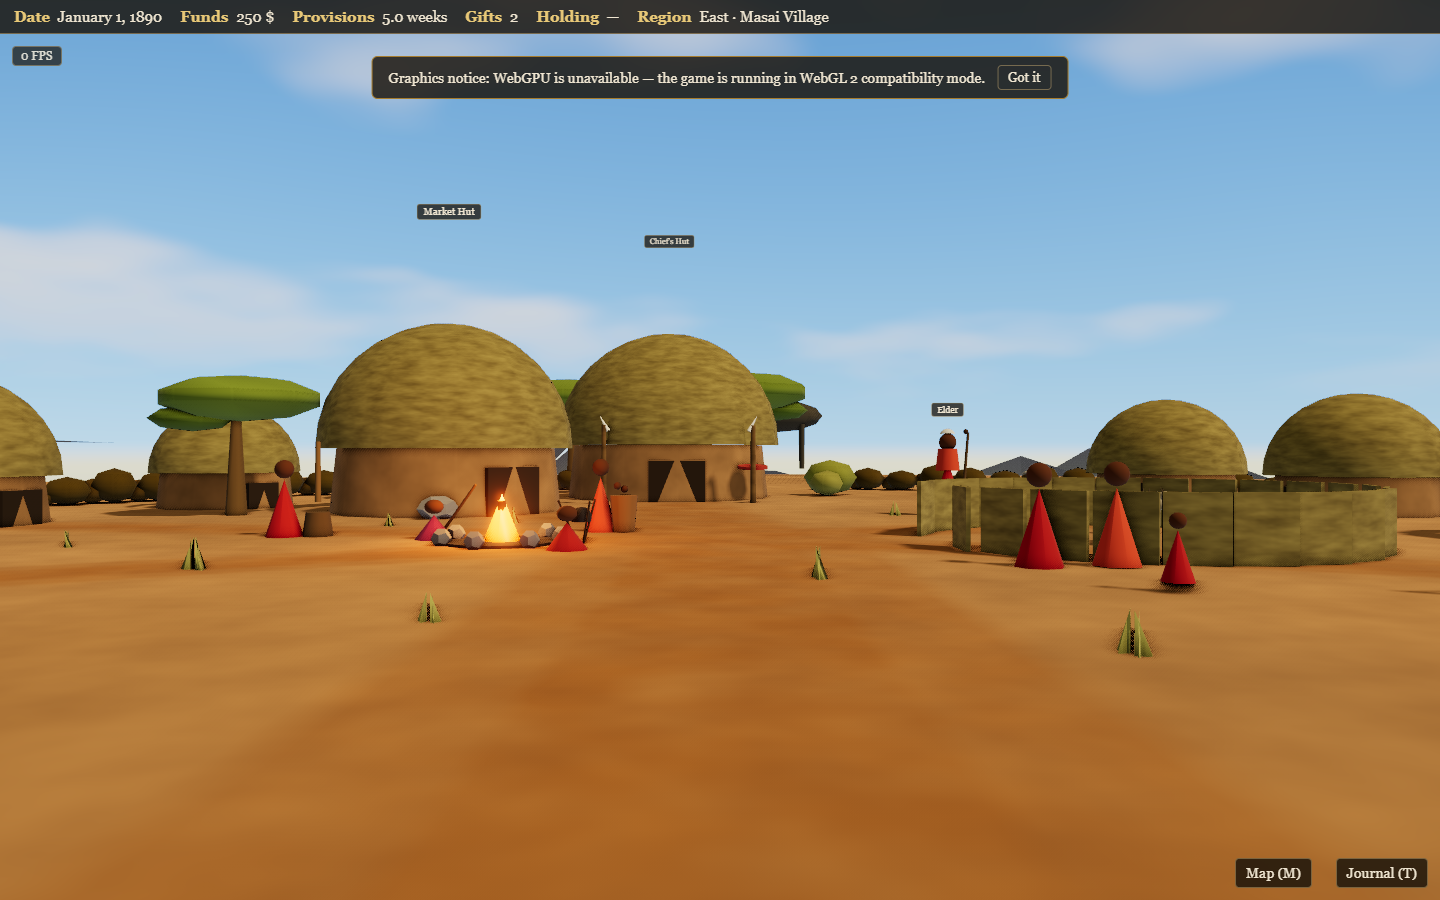
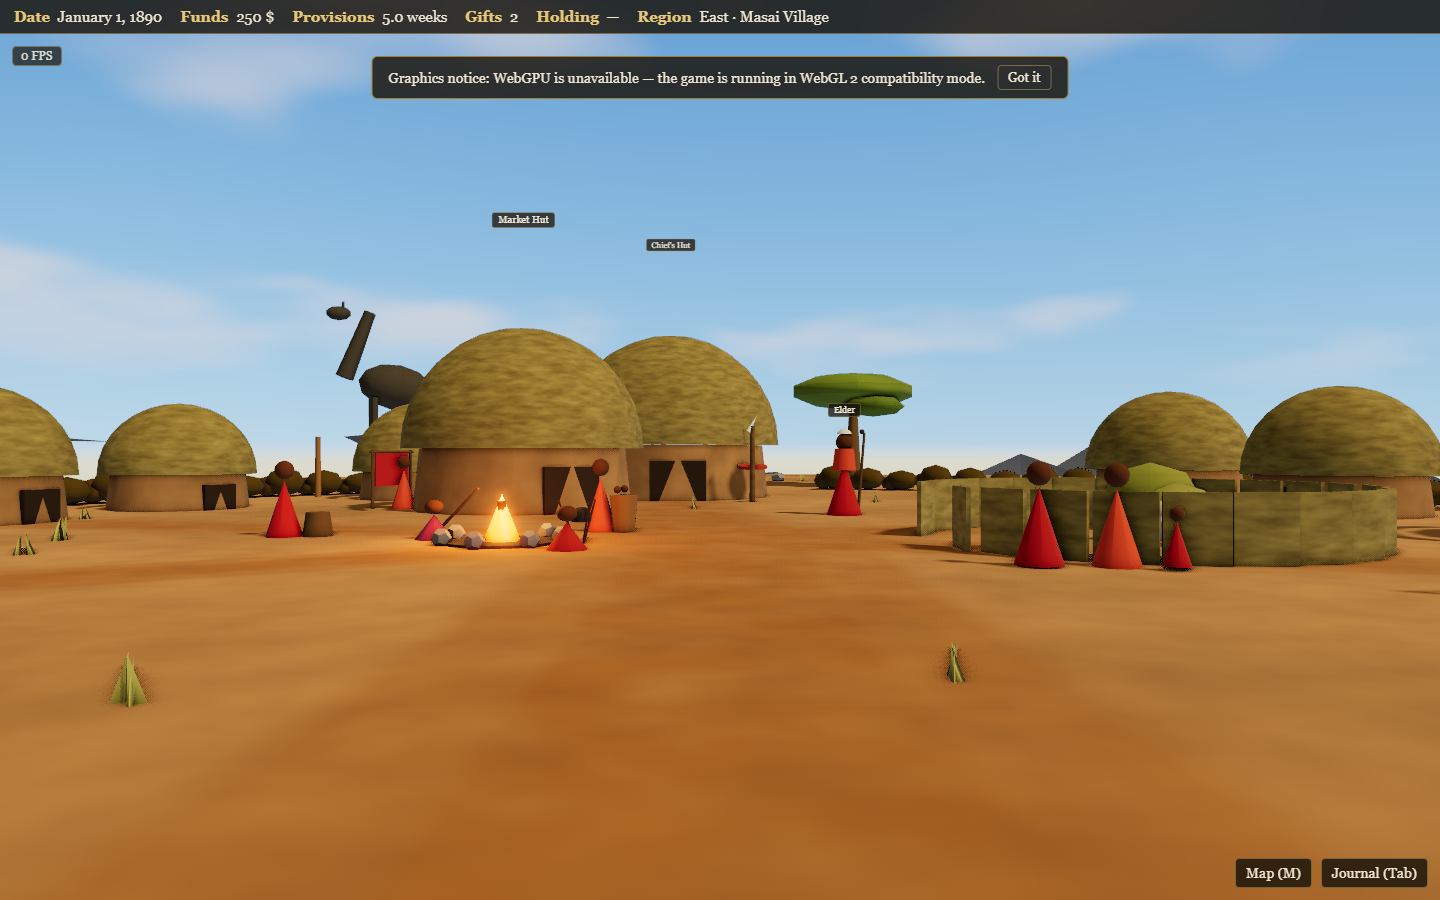
Elephants move as gentle-arcing herds; prey dodge only at the last moment
Elephants no longer hunt prey or turn sharply. Each herd (elephants
placed together share a herd id) roams as one: members follow a shared
heading that curves in slow arcs and steer back toward the herd centre if
they drift off (cohesion), so they stay together and are rarely alone.
Every turn is clamped to a gentle rate — they only ever move forward, no
strafing or backing up; when the ground ahead is impassable they redirect
gently and hold position rather than turning sharply. Prey now dodge an
approaching elephant only within a small panic radius and a touch slower
than the herd, so a head-on herd still tramples one now and then.

Verification: enrichments.mjs asserts a herd's centre moves while staying
clustered with only gentle heading changes, that prey ignore a distant
elephant but dart away from a close one, and (unchanged) that an elephant
on a prey still tramples it.

diff --git a/src/scenes/travel/Wildlife.tsx b/src/scenes/travel/Wildlife.tsx
@@ -50,6 +50,8 @@ interface Animal {
   drink?: { tx: number; tz: number }
   /** Current heading for roaming elephants (radians; set lazily). */
   heading?: number
+  /** Herd id shared by elephants placed together, so a herd moves as one. */
+  herd?: number
 }
 
 /**
@@ -92,12 +94,18 @@ const FLEES_LION: Record<Species, boolean> = {
 const TRAMPLE_RADIUS = 1.5
 const FLEE_RADIUS = 14
 const MAX_STAINS = 60
-/** Elephant roaming (design.md §19): walk speed, turn rate, prey-notice range.
- *  The turn rate keeps the turning radius (speed/turn) below the trample radius
- *  so a pursuing elephant can close in on prey instead of orbiting it. */
-const ELEPHANT_SPEED = 1.8
-const ELEPHANT_TURN = 1.6
-const ELEPHANT_NOTICE = 42
+/** Elephant herd roaming (design.md §19): a slow amble that only ever moves
+ *  forward, turning in gentle arcs. Herd-mates keep together (cohesion); they
+ *  do not hunt prey — a smaller animal is only trampled if it happens to be in
+ *  the herd's path and dodges too late. */
+const ELEPHANT_SPEED = 1.5
+const ELEPHANT_TURN = 0.55 // gentle steering only (no sharp turns / strafing)
+const ELEPHANT_HERD_ARC = 0.3 // amplitude of the herd heading's slow S-curve
+const ELEPHANT_COHESION = 6 // steer back toward the herd beyond this radius
+/** Prey dodge an elephant only when it comes this close, and a touch slower
+ *  than the elephant, so a head-on herd still tramples them now and then. */
+const PREY_PANIC_RADIUS = 3.2
+const PREY_PANIC_SPEED = 1.35
 
 function hash(cx: number, cz: number, i: number, seed: number): number {
   let h = (seed ^ 0xa51ce5) >>> 0
@@ -158,7 +166,10 @@ function buildHerds(cx: number, cz: number, seed: number): Record<Species, Anima
         }
       }
       if (!species) continue
-      placeGroup(herds[species], ccx, ccz, ax, az, count, 7, seed, species === 'elephant' ? 1 : 0.9, false)
+      // Elephants placed together share a herd id (stable per chunk) so they
+      // move as one; other species roam/graze individually.
+      const herdId = species === 'elephant' ? ccx * 1000003 + ccz : undefined
+      placeGroup(herds[species], ccx, ccz, ax, az, count, 7, seed, species === 'elephant' ? 1 : 0.9, false, herdId)
     }
   }
   return herds
@@ -175,6 +186,7 @@ function placeGroup(
   seed: number,
   baseScale: number,
   shoreline: boolean,
+  herdId?: number,
 ) {
   for (let i = 0; i < count; i++) {
     const r1 = hash(ccx, ccz, 10 + i * 3, seed)
@@ -197,6 +209,7 @@ function placeGroup(
       rot: r3 * Math.PI * 2,
       scale: baseScale * (0.85 + r3 * 0.3),
       phase: r1 * Math.PI * 2,
+      ...(herdId !== undefined ? { herd: herdId } : {}),
     }
     // Animals near water periodically walk to the shore and drink
     // (design.md §19); the shore point follows the water-distance gradient.
@@ -230,6 +243,8 @@ function Herds() {
   const meshRefs = useRef<Partial<Record<Species, THREE.InstancedMesh>>>({})
   const herdsRef = useRef<Record<Species, Animal[]> | null>(null)
   const lastCenter = useRef<string | null>(null)
+  // Shared per-herd roaming state (heading + arc phase), keyed by herd id.
+  const herdState = useRef(new Map<number, { heading: number; phase: number }>())
 
   const geometries = useMemo<Record<Species, THREE.BufferGeometry>>(
     () => ({
@@ -284,6 +299,7 @@ function Herds() {
       lastCenter.current = center
       herdsRef.current = buildHerds(cx, cz, seed)
       stains.current = []
+      herdState.current.clear()
     }
     const herds = herdsRef.current
     if (!herds) return
@@ -291,10 +307,38 @@ function Herds() {
     const t = clock.elapsedTime
     const lionActive = LION_STATE.mode === 'chase' || LION_STATE.mode === 'feed'
 
-    // Elephants roam the savanna (design.md §19): a slow directed walk, gently
-    // biased toward the nearest grazing prey, staying on suitable land. Their
-    // moving positions drive the trampling of smaller animals underfoot.
-    const preyHerds = [herds.zebra, herds.antelope, herds.giraffe]
+    // Elephants roam as herds (design.md §19): each herd shares a heading that
+    // curves in slow arcs; its members keep together (cohesion) and only ever
+    // move forward. They do not hunt — a smaller animal is trampled only if it
+    // is in the herd's path and dodges too late. First aggregate each live
+    // herd's centre and advance its shared heading.
+    const herdCentre = new Map<number, { cx: number; cz: number; heading: number }>()
+    {
+      const sum = new Map<number, { sx: number; sz: number; n: number }>()
+      for (const a of herds.elephant) {
+        if (a.dead || a.herd === undefined) continue
+        const agg = sum.get(a.herd) ?? { sx: 0, sz: 0, n: 0 }
+        agg.sx += a.x
+        agg.sz += a.z
+        agg.n++
+        sum.set(a.herd, agg)
+      }
+      for (const [hid, agg] of sum) {
+        const ccx = agg.sx / agg.n
+        const ccz = agg.sz / agg.n
+        let st = herdState.current.get(hid)
+        if (!st) {
+          st = { heading: hash(hid, 0, 7, seed) * Math.PI * 2, phase: hash(hid, 0, 8, seed) * Math.PI * 2 }
+          herdState.current.set(hid, st)
+        }
+        st.heading += Math.sin(t * 0.08 + st.phase) * ELEPHANT_HERD_ARC * dt
+        // Steer the herd away from ground it cannot cross (ahead of its centre).
+        const fll = worldToLatLon(ccx + Math.sin(st.heading) * 9, ccz + Math.cos(st.heading) * 9)
+        const ft = sampleTerrain(fll.lat, fll.lon, seed).type
+        if (ft !== 'savanna' && ft !== 'jungle') st.heading += ELEPHANT_TURN * 2 * dt
+        herdCentre.set(hid, { cx: ccx, cz: ccz, heading: st.heading })
+      }
+    }
     const elephantPos: Array<[number, number]> = []
     {
       const list = herds.elephant
@@ -303,23 +347,27 @@ function Herds() {
         const a = list[i]
         if (a.dead) continue
         if (a.heading === undefined) a.heading = a.rot
-        // Steer toward the nearest live prey within notice range; otherwise
-        // wander with a slowly curving heading (deterministic per elephant).
-        let target: Animal | null = null
-        let best = ELEPHANT_NOTICE
-        for (const herd of preyHerds) {
-          for (const p of herd) {
-            if (p.dead) continue
-            const d = Math.hypot(p.x - a.x, p.z - a.z)
-            if (d < best) { best = d; target = p }
-          }
+        const info = a.herd !== undefined ? herdCentre.get(a.herd) : undefined
+        // Follow the herd heading; steer back toward the centre if drifting off.
+        let desired = a.heading
+        if (info) {
+          const toCx = info.cx - a.x
+          const toCz = info.cz - a.z
+          desired = Math.hypot(toCx, toCz) > ELEPHANT_COHESION ? Math.atan2(toCx, toCz) : info.heading
+        } else {
+          desired = a.heading + Math.sin(t * 0.1 + a.phase * 5) * 0.4
         }
-        const desired = target
-          ? Math.atan2(target.x - a.x, target.z - a.z)
-          : a.heading + Math.sin(t * 0.13 + a.phase * 5) * 0.9
+        // If the ground just ahead cannot be crossed, redirect the desired
+        // heading toward the herd (or away) — but still turn only gently.
+        const aheadLL = worldToLatLon(a.x + Math.sin(a.heading) * 6, a.z + Math.cos(a.heading) * 6)
+        const aheadT = sampleTerrain(aheadLL.lat, aheadLL.lon, seed).type
+        if (aheadT !== 'savanna' && aheadT !== 'jungle') {
+          desired = info ? Math.atan2(info.cx - a.x, info.cz - a.z) : a.heading + Math.PI * 0.6
+        }
         let dh = desired - a.heading
         while (dh > Math.PI) dh -= Math.PI * 2
         while (dh < -Math.PI) dh += Math.PI * 2
+        // Gentle arc only — clamp the per-frame turn (never a sharp turn).
         a.heading += Math.max(-ELEPHANT_TURN * dt, Math.min(ELEPHANT_TURN * dt, dh))
         const nx = a.x + Math.sin(a.heading) * ELEPHANT_SPEED * dt
         const nz = a.z + Math.cos(a.heading) * ELEPHANT_SPEED * dt
@@ -329,11 +377,8 @@ function Herds() {
           a.x = nx
           a.z = nz
           a.y = Math.max(0.02, ter.height)
-        } else {
-          // Turn back from desert, water or the open sea (a firm, steady turn
-          // rather than a per-frame spin) and hold position this step.
-          a.heading += ELEPHANT_TURN * 2.5 * dt
         }
+        // Else hold position this frame and keep turning gently next frame.
         elephantPos.push([a.x, a.z])
       }
     }
@@ -396,6 +441,27 @@ function Herds() {
             px += (dx / d) * push
             pz += (dz / d) * push
             yaw = Math.atan2(dx, dz) // face away while fleeing
+            pitch = 0
+          }
+        }
+        // Dodge an approaching elephant, but only at the last moment (design.md
+        // §19): the prey darts away just before it is reached and a touch
+        // slower than the herd, so a head-on elephant still catches some.
+        if (sp !== 'elephant' && FLEES_LION[sp]) {
+          let near: [number, number, number] | null = null
+          for (const [ex, ez] of elephantPos) {
+            const d = Math.hypot(px - ex, pz - ez)
+            if (d < PREY_PANIC_RADIUS && (!near || d < near[2])) near = [ex, ez, d]
+          }
+          if (near) {
+            const dx = a.x - near[0]
+            const dz = a.z - near[1]
+            const d = Math.hypot(dx, dz) || 1
+            a.x += (dx / d) * PREY_PANIC_SPEED * dt
+            a.z += (dz / d) * PREY_PANIC_SPEED * dt
+            px = a.x
+            pz = a.z
+            yaw = Math.atan2(dx, dz)
             pitch = 0
           }
         }

diff --git a/claude.md b/claude.md
@@ -285,12 +285,15 @@ The POC counts as fulfilled when all points verifiably hold. Details per
     carcass (lowered, rhythmically tearing head movements, red spreading
     stain beneath the prey), the carcass shrinks away piece by piece, and
     once it is consumed the lion moves on. Further animal interactions
-    hold: elephants roam the land with a slow directed walk (biased toward
-    nearby grazing herds, staying on savanna/forest) and trample smaller
-    animals they pass over (dead on the ground over a red stain), prey
-    scatters from an active lion, vultures circle a kill, shore-near
-    animals periodically walk to the water and drink, grazers dip their
-    heads on open land. The open landscape is dressed
+    hold: elephants move as herds — members keep together and roam as a
+    group (rarely alone), only ever forward and turning in gentle arcs
+    (no sharp turns/strafing), staying on savanna/forest; they do not hunt,
+    but a smaller animal in the herd's path is trampled (dead on the ground
+    over a red stain). Other animals dodge an elephant only at the last
+    moment (and a touch slower than it), so a head-on herd still tramples
+    one now and then. Prey scatters from an active lion, vultures circle a
+    kill, shore-near animals periodically walk to the water and drink,
+    grazers dip their heads on open land. The open landscape is dressed
     with region-typical period elements (baobabs, termite mounds, kopjes,
     dead trees, papyrus belts along water; `design.md` §19). The elephant
     graveyard (`design.md` §4.4) is dressed so it reads at a glance: a
@@ -298,8 +301,9 @@ The POC counts as fulfilled when all points verifiably hold. Details per
     bones strewn over a pale bone-littered patch. Verifiable:
     automated checks force the feed state (carcass, head animation, stain,
     leave phase), provoke a trampling via an injected elephant, prove an
-    elephant roams (its position changes over time) and walks over to
-    trample a nearby prey on its own, assert that lion hunts run in varied
+    elephant herd roams together (its centre moves, it stays clustered, and
+    it turns only in gentle arcs) and that prey ignore a distant elephant
+    but dart away from a close one (last-moment dodge), assert that lion hunts run in varied
     directions (low mean-resultant length across hunts) with a weaving prey
     (its heading oscillates around straight-away), and assert the
     graveyard's carcass/tusk/bone counts via the dev hook with a screenshot

diff --git a/design.md b/design.md
@@ -355,7 +355,7 @@ If the character can no longer write (death), the handwritten entry is omitted; 
 Complementary elements that reinforce the feeling of Africa, mostly without new mechanics.
 
 - Regional soundscape and dynamic music: distinct sound worlds per region (savanna insects and vastness, jungle with birds and monkeys, desert wind, drums near villages). Changes on region transitions and on perspective switches.
-- Living wildlife as scenery: non-threatening animals in the field of view (elephant and ungulate herds, giraffes, zebras, flamingos at the lakes). Purely visual, anchoring place and region. The animals also interact with one another (say, a lion bringing down a zebra) — as ambient scenery without influence on the player. The lion closes in on the prey from a random direction, so a hunt runs any which way across the plain rather than always toward the same corner; the fleeing prey does not run in a straight line but weaves left and right to try to shake the lion, which pursues with a limited turning rate (sharp cuts throw it wide) yet is faster and closes in over time. When a lion has brought down prey, it visibly feeds on it (schematic: the lion stands over the fallen carcass with lowered, rhythmically tearing head movements, a red stain spreading beneath); the carcass shrinks away piece by piece while the lion eats, and once it is fully consumed the lion walks off and the scene despawns — only the stain briefly remains. Further interactions among the animals: elephant herds actually roam across the land — a slow, directed walk (not a sway in place) that keeps to suitable ground (savanna and forest, where elephants occurred at the end of the 19th century, not the open desert) and drifts toward nearby grazing herds, so they visibly cross the landscape. A smaller animal caught under a roaming elephant is trampled — it stays dead on the ground over a red stain like a lion kill; prey animals (zebras, antelopes, giraffes) scatter away from a hunting or feeding lion; vultures gather and circle above a lion kill. The animals also interact with the landscape: animals living near a river or lake periodically walk to the shore, lower their heads and drink before returning to the herd; grazing species dip their heads into the grass on open land; flamingos wade in the shallows (existing).
+- Living wildlife as scenery: non-threatening animals in the field of view (elephant and ungulate herds, giraffes, zebras, flamingos at the lakes). Purely visual, anchoring place and region. The animals also interact with one another (say, a lion bringing down a zebra) — as ambient scenery without influence on the player. The lion closes in on the prey from a random direction, so a hunt runs any which way across the plain rather than always toward the same corner; the fleeing prey does not run in a straight line but weaves left and right to try to shake the lion, which pursues with a limited turning rate (sharp cuts throw it wide) yet is faster and closes in over time. When a lion has brought down prey, it visibly feeds on it (schematic: the lion stands over the fallen carcass with lowered, rhythmically tearing head movements, a red stain spreading beneath); the carcass shrinks away piece by piece while the lion eats, and once it is fully consumed the lion walks off and the scene despawns — only the stain briefly remains. Further interactions among the animals: elephants move as herds — the members keep together and roam as a group (they are rarely seen alone), on a slow amble that only ever moves forward and changes direction in gentle arcs (no sharp turns, no strafing or backing up), staying on suitable ground (savanna and forest, where elephants occurred at the end of the 19th century, not the open desert). They do not hunt; a smaller animal is trampled only if it happens to be in the herd's path. Other animals try to get out of an elephant's way, but only at the last moment — they dart aside just before the herd reaches them and a touch slower than an elephant, so a head-on herd still tramples one now and then. A trampled animal stays dead on the ground over a red stain like a lion kill; prey animals (zebras, antelopes, giraffes) scatter away from a hunting or feeding lion; vultures gather and circle above a lion kill. The animals also interact with the landscape: animals living near a river or lake periodically walk to the shore, lower their heads and drink before returning to the herd; grazing species dip their heads into the grass on open land; flamingos wade in the shallows (existing).
 - Vultures at poor health: if the character is in poor health (§6), vultures circle above and follow them for a while — an atmospheric signal without its own mechanics.
 - Climate and environmental look: region-typical atmosphere such as heat shimmer in the desert, humid haze in the jungle and clear air in the highlands. Purely visual.
 - Rich, region-typical landscape dressing in the bird's-eye view: beyond the base vegetation, the land is dotted with period-appropriate elements of its region — baobabs, termite mounds, kopjes (granite boulder piles) and occasional dead trees in the savanna, bare trees at the desert edge, papyrus and reed belts along rivers and lake shores. The open land must not read as barren.